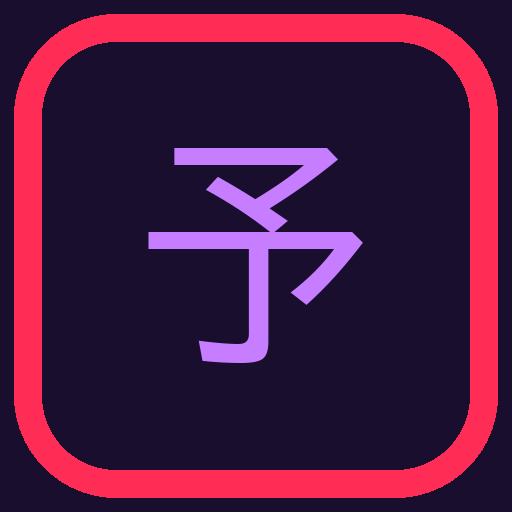
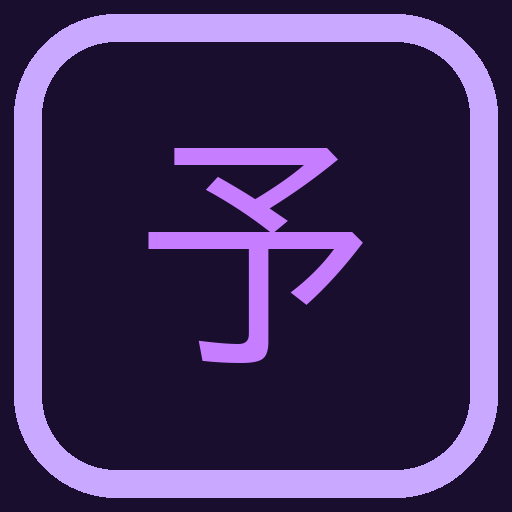
予備の色を藤色に（アイコンも）・ダイヤ内容ボタンを銀色に・スペシャルはダイヤごとの色 (v4.15) (by AIタケタニ)
Claude-Session: https://claude.ai/code/session_01XfdWNACeuPW8Z4aEAMbXph

Changed region(s): [[0.0, 0.0, 1.0, 1.0]]

diff --git a/logs.html b/logs.html
@@ -1,4 +1,8 @@
       <div class="log-item">
+        <div class="log-date">2026/11/09</div>
+        <div class="log-body"><span class="tag tag-up">改善</span>予備ダイヤの赤い色を、落ち着いた<b>藤色（ラベンダー）</b>にしました（アイコンも）。「ダイヤ内容」ボタンは全ダイヤ共通で<b>銀色</b>（ライトモードはいぶし銀）にしました。スペシャル検索くんは、ダイヤを切り替えると色もそのダイヤの色に変わります。</div>
+      </div>
+      <div class="log-item">
         <div class="log-date">2026/11/08</div>
         <div class="log-body"><span class="tag tag-new">新機能</span>世界と繋がる<a href="https://silvaoo.github.io/honyaku/lp.html" target="_blank" rel="noopener" style="color:inherit;text-decoration:underline;"><b>「ほんやくくん」</b></a>アプリを作りました。外国のお客さんとの会話を、話すだけで翻訳します。入れ方の一番下からも開けます。</div>
       </div>

diff --git a/sw.js b/sw.js
@@ -10,7 +10,7 @@
 
 // キャッシュ名にバージョンを入れておき、更新のたびにこの値を変えることで
 // 新しいService Workerが「更新あり」と判定されるようにする
-const CACHE_VERSION = 'yobi-shukkin-v104';
+const CACHE_VERSION = 'yobi-shukkin-v105';
 const CACHE_FILES = [
     './',
     './index.html',
